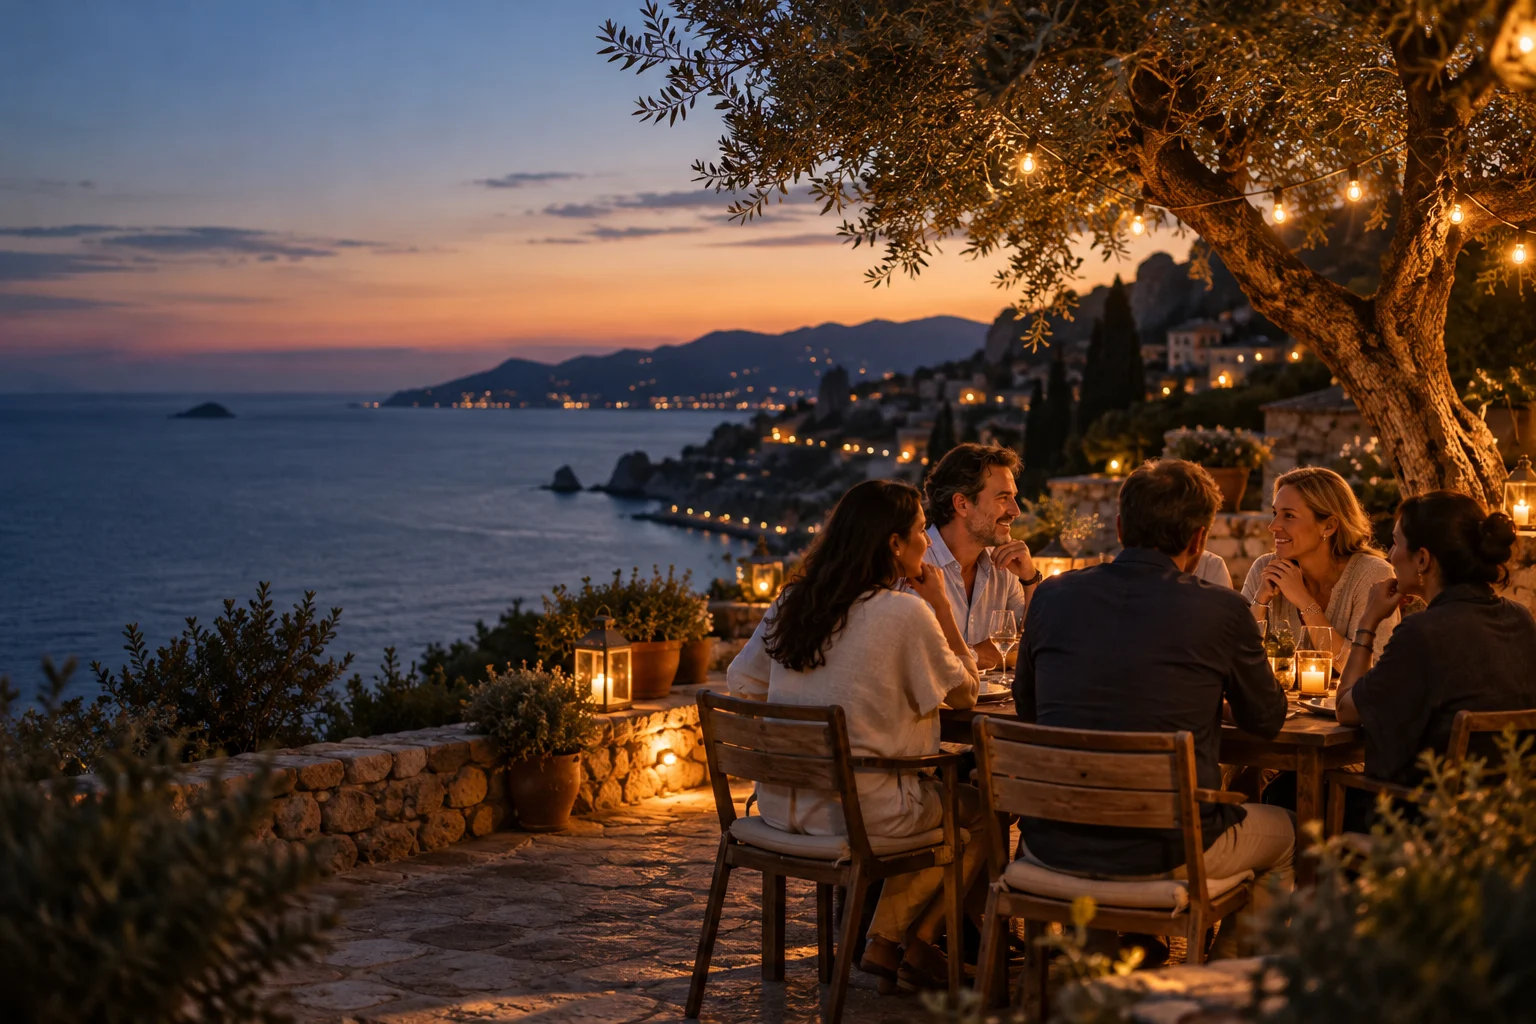
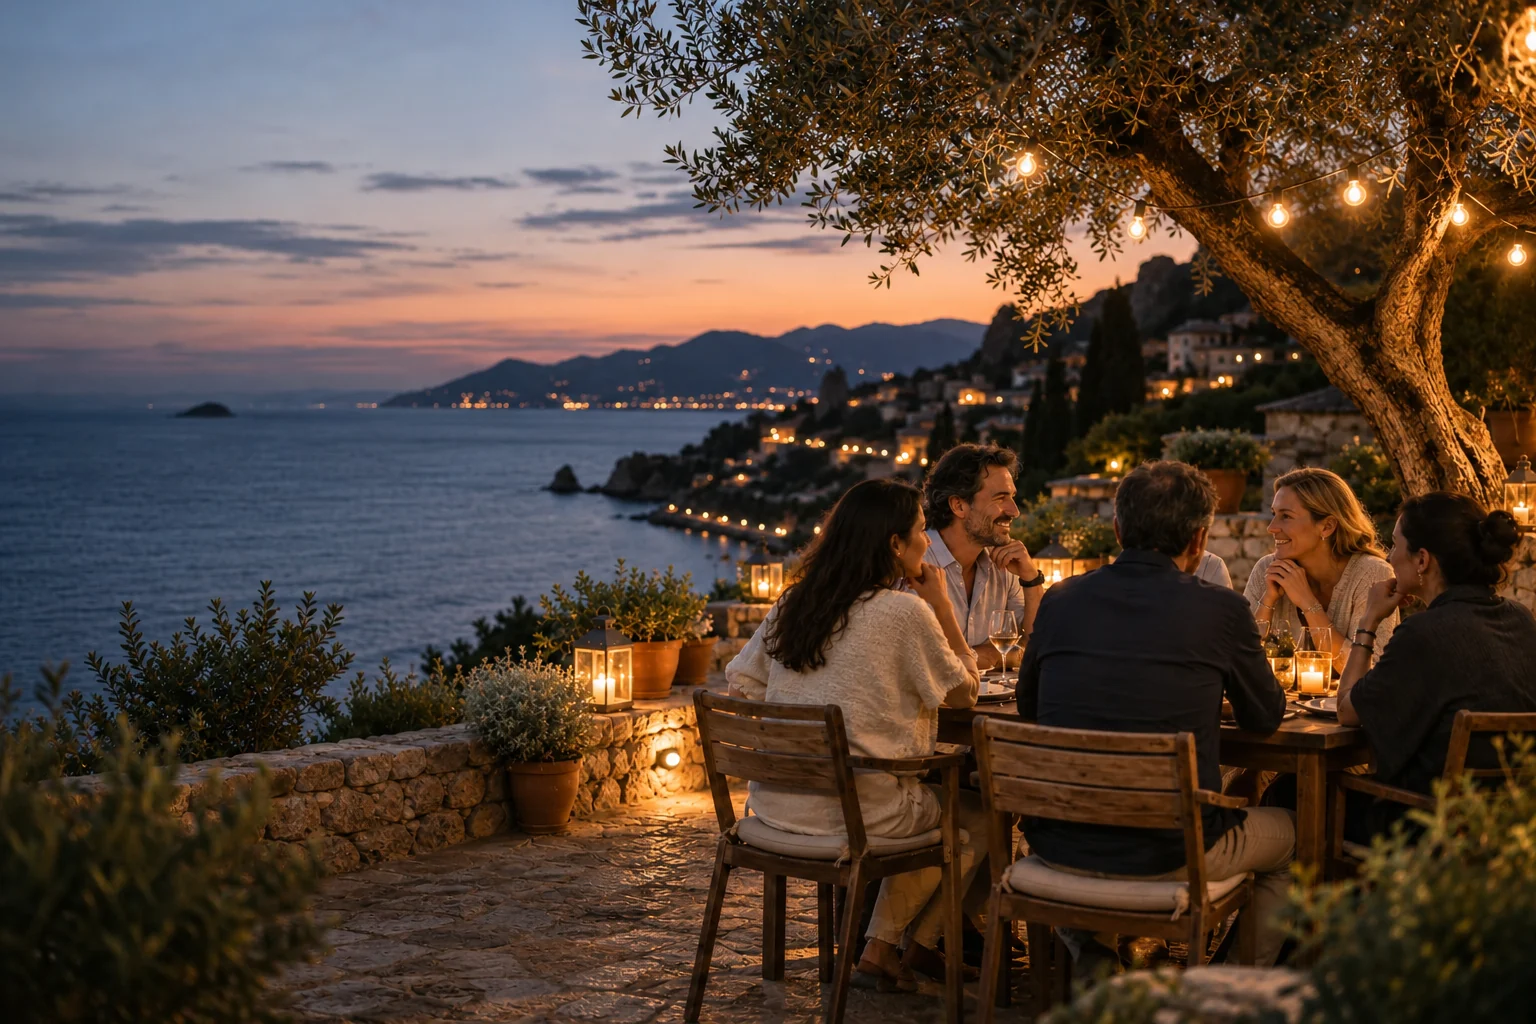
me&you FAQ: split hero with Michael photo (desktop + mobile)

diff --git a/00_project/assets/meandyou/cro/faq/07-prototype/index.html b/00_project/assets/meandyou/cro/faq/07-prototype/index.html
@@ -426,9 +426,10 @@ p{margin:0}
 .closer .links{color:rgba(255,255,255,.85);font-size:17px}.closer .links a{color:#fff}
 
 /* faq page additions */
-.hero--faq{min-height:0;height:auto;max-height:none;padding:118px 0 60px;display:block}
-.hero--faq .hero__in{display:grid;grid-template-columns:1.5fr .62fr;gap:52px;align-items:stretch}
-.hero--faq .hero__txt{max-width:none;padding-top:0;gap:13px}
+.hero--faq .hero__img{width:46%}
+.hero--faq .hero__img img{object-position:50% 20%}
+
+.hero--faq .hero__txt{max-width:700px;padding-top:40px;gap:13px}
 .hero--faq .body{max-width:40em}
 .hero--faq h1{gap:6px}
 .hero--faq h1 .big{font-size:62px;line-height:1.05}
@@ -492,7 +493,8 @@ section.fgrp[id]{scroll-margin-top:150px}
  <nav aria-label="Hauptnavigation"><a href="https://clients.741.studio/meandyou/v2/seminare.html">Seminare</a><a href="https://clients.741.studio/meandyou/v2/michael.html">Michael</a><a href="https://clients.741.studio/meandyou/v2/rhetorik.html">Was ist Rhetorik</a><a href="https://clients.741.studio/meandyou/v2/index.html#stimmen">Stimmen</a><a href="#top" aria-current="page" style="color:var(--cta)">FAQ</a></nav>
  <a class="btn" href="https://clients.741.studio/meandyou/v2/termin.html?utm_source=faq&utm_content=header">Gespräch buchen</a>
 </div></header><main>
-<section class="hero hero--faq" id="top">
+<section class="hero hero--split hero--faq" id="top">
+ <div class="hero__img"><img data-plx src="assets/michael-door.webp" alt="Michael Ehlers, Rhetoriktrainer, lächelnd im weißen Hemd an einem Türrahmen" width="1200" height="1800"></div>
  <div class="wrap hero__in"><div class="hero__txt">
   <p class="proofline rv"><span class="stars" aria-label="5 Sterne"><svg viewBox="0 0 20 20" aria-hidden="true"><path d="M10 1.6l2.5 5.3 5.8.7-4.3 4 1.1 5.8L10 14.6l-5.1 2.8 1.1-5.8-4.3-4 5.8-.7z"/></svg><svg viewBox="0 0 20 20" aria-hidden="true"><path d="M10 1.6l2.5 5.3 5.8.7-4.3 4 1.1 5.8L10 14.6l-5.1 2.8 1.1-5.8-4.3-4 5.8-.7z"/></svg><svg viewBox="0 0 20 20" aria-hidden="true"><path d="M10 1.6l2.5 5.3 5.8.7-4.3 4 1.1 5.8L10 14.6l-5.1 2.8 1.1-5.8-4.3-4 5.8-.7z"/></svg><svg viewBox="0 0 20 20" aria-hidden="true"><path d="M10 1.6l2.5 5.3 5.8.7-4.3 4 1.1 5.8L10 14.6l-5.1 2.8 1.1-5.8-4.3-4 5.8-.7z"/></svg><svg viewBox="0 0 20 20" aria-hidden="true"><path d="M10 1.6l2.5 5.3 5.8.7-4.3 4 1.1 5.8L10 14.6l-5.1 2.8 1.1-5.8-4.3-4 5.8-.7z"/></svg></span> 4,9 von 5 Sternen · Basierend auf 250 Bewertungen auf ProvenExpert · über 8.000 Teilnehmer</p>
   <h1 class="rv"><span class="big">Häufige Fragen</span><span class="kicker">zu den Rhetorik-Seminaren mit Michael Ehlers</span></h1>
@@ -500,7 +502,6 @@ section.fgrp[id]{scroll-margin-top:150px}
   <nav class="ftopics rv" aria-label="Themen"><a class="chip" href="#seminar" data-t="seminar"><i>01</i>Seminar und Inhalte</a><a class="chip" href="#orte" data-t="orte"><i>02</i>Orte und Termine</a><a class="chip" href="#ablauf" data-t="ablauf"><i>03</i>Ablauf und Leistungen</a><a class="chip" href="#kosten" data-t="kosten"><i>04</i>Kosten und Storno</a><a class="chip" href="#gespraech" data-t="gespraech"><i>05</i>Das Gespräch</a><a class="chip" href="#michael" data-t="michael"><i>06</i>Michael</a><a class="chip" href="#rhetorik" data-t="rhetorik"><i>07</i>Rhetorik allgemein</a></nav>
   <div class="cta-row rv"><a class="btn cta--breathe" href="https://clients.741.studio/meandyou/v2/termin.html?utm_source=faq&utm_content=hero">Gespräch buchen</a><p class="assure"><svg viewBox="0 0 20 20" aria-hidden="true"><path d="M4 10.5l4 4 8-9" fill="none" stroke="currentColor" stroke-width="2.2" stroke-linecap="round" stroke-linejoin="round"/></svg>Deine Frage fehlt? Kläre sie in einem kostenlosen Gespräch von 30 Minuten per Video.</p></div>
  </div>
- <div class="hero__frame rv"><img data-plx src="assets/michael-door.webp" alt="Michael Ehlers, Rhetoriktrainer, lächelnd im weißen Hemd an einem Türrahmen" width="1200" height="1800"></div>
  </div>
 </section>
 <div class="subnav" aria-hidden="true"><nav class="ftopics"><a class="chip" href="#seminar" data-t="seminar"><i>01</i>Seminar und Inhalte</a><a class="chip" href="#orte" data-t="orte"><i>02</i>Orte und Termine</a><a class="chip" href="#ablauf" data-t="ablauf"><i>03</i>Ablauf und Leistungen</a><a class="chip" href="#kosten" data-t="kosten"><i>04</i>Kosten und Storno</a><a class="chip" href="#gespraech" data-t="gespraech"><i>05</i>Das Gespräch</a><a class="chip" href="#michael" data-t="michael"><i>06</i>Michael</a><a class="chip" href="#rhetorik" data-t="rhetorik"><i>07</i>Rhetorik allgemein</a></nav></div>

diff --git a/00_project/assets/meandyou/cro/_site/faq.html b/00_project/assets/meandyou/cro/_site/faq.html
@@ -426,9 +426,10 @@ p{margin:0}
 .closer .links{color:rgba(255,255,255,.85);font-size:17px}.closer .links a{color:#fff}
 
 /* faq page additions */
-.hero--faq{min-height:0;height:auto;max-height:none;padding:118px 0 60px;display:block}
-.hero--faq .hero__in{display:grid;grid-template-columns:1.5fr .62fr;gap:52px;align-items:stretch}
-.hero--faq .hero__txt{max-width:none;padding-top:0;gap:13px}
+.hero--faq .hero__img{width:46%}
+.hero--faq .hero__img img{object-position:50% 20%}
+
+.hero--faq .hero__txt{max-width:700px;padding-top:40px;gap:13px}
 .hero--faq .body{max-width:40em}
 .hero--faq h1{gap:6px}
 .hero--faq h1 .big{font-size:62px;line-height:1.05}
@@ -492,7 +493,8 @@ section.fgrp[id]{scroll-margin-top:150px}
  <nav aria-label="Hauptnavigation"><a href="seminare.html">Seminare</a><a href="michael.html">Michael</a><a href="rhetorik.html">Was ist Rhetorik</a><a href="stimmen.html">Stimmen</a><a href="#top" aria-current="page" style="color:var(--cta)">FAQ</a></nav>
  <a class="btn" href="gespraech-buchen.html?utm_source=faq&utm_content=header" data-event="booking_click">Optionen ansehen</a>
 </div></header><main>
-<section class="hero hero--faq" id="top">
+<section class="hero hero--split hero--faq" id="top">
+ <div class="hero__img"><img data-plx src="assets/faq/michael-door.webp" alt="Michael Ehlers, Rhetoriktrainer, lächelnd im weißen Hemd an einem Türrahmen" width="1200" height="1800"></div>
  <div class="wrap hero__in"><div class="hero__txt">
   <p class="proofline rv"><span class="stars" aria-label="5 Sterne"><svg viewBox="0 0 20 20" aria-hidden="true"><path d="M10 1.6l2.5 5.3 5.8.7-4.3 4 1.1 5.8L10 14.6l-5.1 2.8 1.1-5.8-4.3-4 5.8-.7z"/></svg><svg viewBox="0 0 20 20" aria-hidden="true"><path d="M10 1.6l2.5 5.3 5.8.7-4.3 4 1.1 5.8L10 14.6l-5.1 2.8 1.1-5.8-4.3-4 5.8-.7z"/></svg><svg viewBox="0 0 20 20" aria-hidden="true"><path d="M10 1.6l2.5 5.3 5.8.7-4.3 4 1.1 5.8L10 14.6l-5.1 2.8 1.1-5.8-4.3-4 5.8-.7z"/></svg><svg viewBox="0 0 20 20" aria-hidden="true"><path d="M10 1.6l2.5 5.3 5.8.7-4.3 4 1.1 5.8L10 14.6l-5.1 2.8 1.1-5.8-4.3-4 5.8-.7z"/></svg><svg viewBox="0 0 20 20" aria-hidden="true"><path d="M10 1.6l2.5 5.3 5.8.7-4.3 4 1.1 5.8L10 14.6l-5.1 2.8 1.1-5.8-4.3-4 5.8-.7z"/></svg></span> 4,9 von 5 Sternen · Basierend auf 250 Bewertungen auf ProvenExpert · über 8.000 Teilnehmer</p>
   <h1 class="rv"><span class="big">Häufige Fragen</span><span class="kicker">zu den Rhetorik-Seminaren mit Michael Ehlers</span></h1>
@@ -500,7 +502,6 @@ section.fgrp[id]{scroll-margin-top:150px}
   <nav class="ftopics rv" aria-label="Themen"><a class="chip" href="#seminar" data-t="seminar"><i>01</i>Seminar und Inhalte</a><a class="chip" href="#orte" data-t="orte"><i>02</i>Orte und Termine</a><a class="chip" href="#ablauf" data-t="ablauf"><i>03</i>Ablauf und Leistungen</a><a class="chip" href="#kosten" data-t="kosten"><i>04</i>Kosten und Storno</a><a class="chip" href="#gespraech" data-t="gespraech"><i>05</i>Das Gespräch</a><a class="chip" href="#michael" data-t="michael"><i>06</i>Michael</a><a class="chip" href="#rhetorik" data-t="rhetorik"><i>07</i>Rhetorik allgemein</a></nav>
   <div class="cta-row rv"><a class="btn cta--breathe" href="gespraech-buchen.html?utm_source=faq&utm_content=hero" data-event="booking_click">Optionen ansehen</a><p class="assure"><svg viewBox="0 0 20 20" aria-hidden="true"><path d="M4 10.5l4 4 8-9" fill="none" stroke="currentColor" stroke-width="2.2" stroke-linecap="round" stroke-linejoin="round"/></svg>Deine Frage fehlt? Kläre sie in einem kostenlosen Gespräch von 30 Minuten per Video.</p></div>
  </div>
- <div class="hero__frame rv"><img data-plx src="assets/faq/michael-door.webp" alt="Michael Ehlers, Rhetoriktrainer, lächelnd im weißen Hemd an einem Türrahmen" width="1200" height="1800"></div>
  </div>
 </section>
 <div class="subnav" aria-hidden="true"><nav class="ftopics"><a class="chip" href="#seminar" data-t="seminar"><i>01</i>Seminar und Inhalte</a><a class="chip" href="#orte" data-t="orte"><i>02</i>Orte und Termine</a><a class="chip" href="#ablauf" data-t="ablauf"><i>03</i>Ablauf und Leistungen</a><a class="chip" href="#kosten" data-t="kosten"><i>04</i>Kosten und Storno</a><a class="chip" href="#gespraech" data-t="gespraech"><i>05</i>Das Gespräch</a><a class="chip" href="#michael" data-t="michael"><i>06</i>Michael</a><a class="chip" href="#rhetorik" data-t="rhetorik"><i>07</i>Rhetorik allgemein</a></nav></div>

diff --git a/00_project/assets/meandyou/cro/faq/07-prototype/build.py b/00_project/assets/meandyou/cro/faq/07-prototype/build.py
@@ -63,9 +63,10 @@ def group(sid):
 # ---------- page parts ----------
 CSS = rh.CSS + r"""
 /* faq page additions */
-.hero--faq{min-height:0;height:auto;max-height:none;padding:118px 0 60px;display:block}
-.hero--faq .hero__in{display:grid;grid-template-columns:1.5fr .62fr;gap:52px;align-items:stretch}
-.hero--faq .hero__txt{max-width:none;padding-top:0;gap:13px}
+.hero--faq .hero__img{width:46%}
+.hero--faq .hero__img img{object-position:50% 20%}
+
+.hero--faq .hero__txt{max-width:700px;padding-top:40px;gap:13px}
 .hero--faq .body{max-width:40em}
 .hero--faq h1{gap:6px}
 .hero--faq h1 .big{font-size:62px;line-height:1.05}
@@ -127,6 +128,7 @@ section.fgrp[id]{scroll-margin-top:150px}
 def header():
     return f'''<header class="hdr"><div class="hdr__in">
  <a class="hdr__logo" href="{V2}index.html"><img src="assets/logo-dark.png" alt="Michael Ehlers &amp; You Communication, Startseite" width="1794" height="647"></a>
+ <button class="hdr__burger" aria-label="Menü" aria-expanded="false"><span></span></button>
  <nav aria-label="Hauptnavigation"><a href="{V2}seminare.html">Seminare</a><a href="{V2}michael.html">Michael</a><a href="{V2}rhetorik.html">Was ist Rhetorik</a><a href="{V2}index.html#stimmen">Stimmen</a><a href="#top" aria-current="page" style="color:var(--cta)">FAQ</a></nav>
  {btn('header')}
 </div></header>'''
@@ -141,7 +143,8 @@ def s01():
     L = SEC['S01']
     h1 = L[1][2:]
     return f'''
-<section class="hero hero--faq" id="top">
+<section class="hero hero--split hero--faq" id="top">
+ <div class="hero__img"><img data-plx src="assets/michael-door.webp" alt="Michael Ehlers, Rhetoriktrainer, lächelnd im weißen Hemd an einem Türrahmen" width="1200" height="1800"></div>
  <div class="wrap hero__in"><div class="hero__txt">
   <p class="proofline rv">{STARS} {e(L[0])}</p>
   <h1 class="rv"><span class="big">{e(h1[:14])}</span><span class="kicker">{e(h1[15:])}</span></h1>
@@ -149,7 +152,6 @@ def s01():
   <nav class="ftopics rv" aria-label="Themen">{chips()}</nav>
   <div class="cta-row rv">{btn('hero', 'btn cta--breathe')}<p class="assure">{CHECK}{e(L[5])}</p></div>
  </div>
- <div class="hero__frame rv"><img data-plx src="assets/michael-door.webp" alt="Michael Ehlers, Rhetoriktrainer, lächelnd im weißen Hemd an einem Türrahmen" width="1200" height="1800"></div>
  </div>
 </section>
 <div class="subnav" aria-hidden="true"><nav class="ftopics">{chips()}</nav></div>'''
